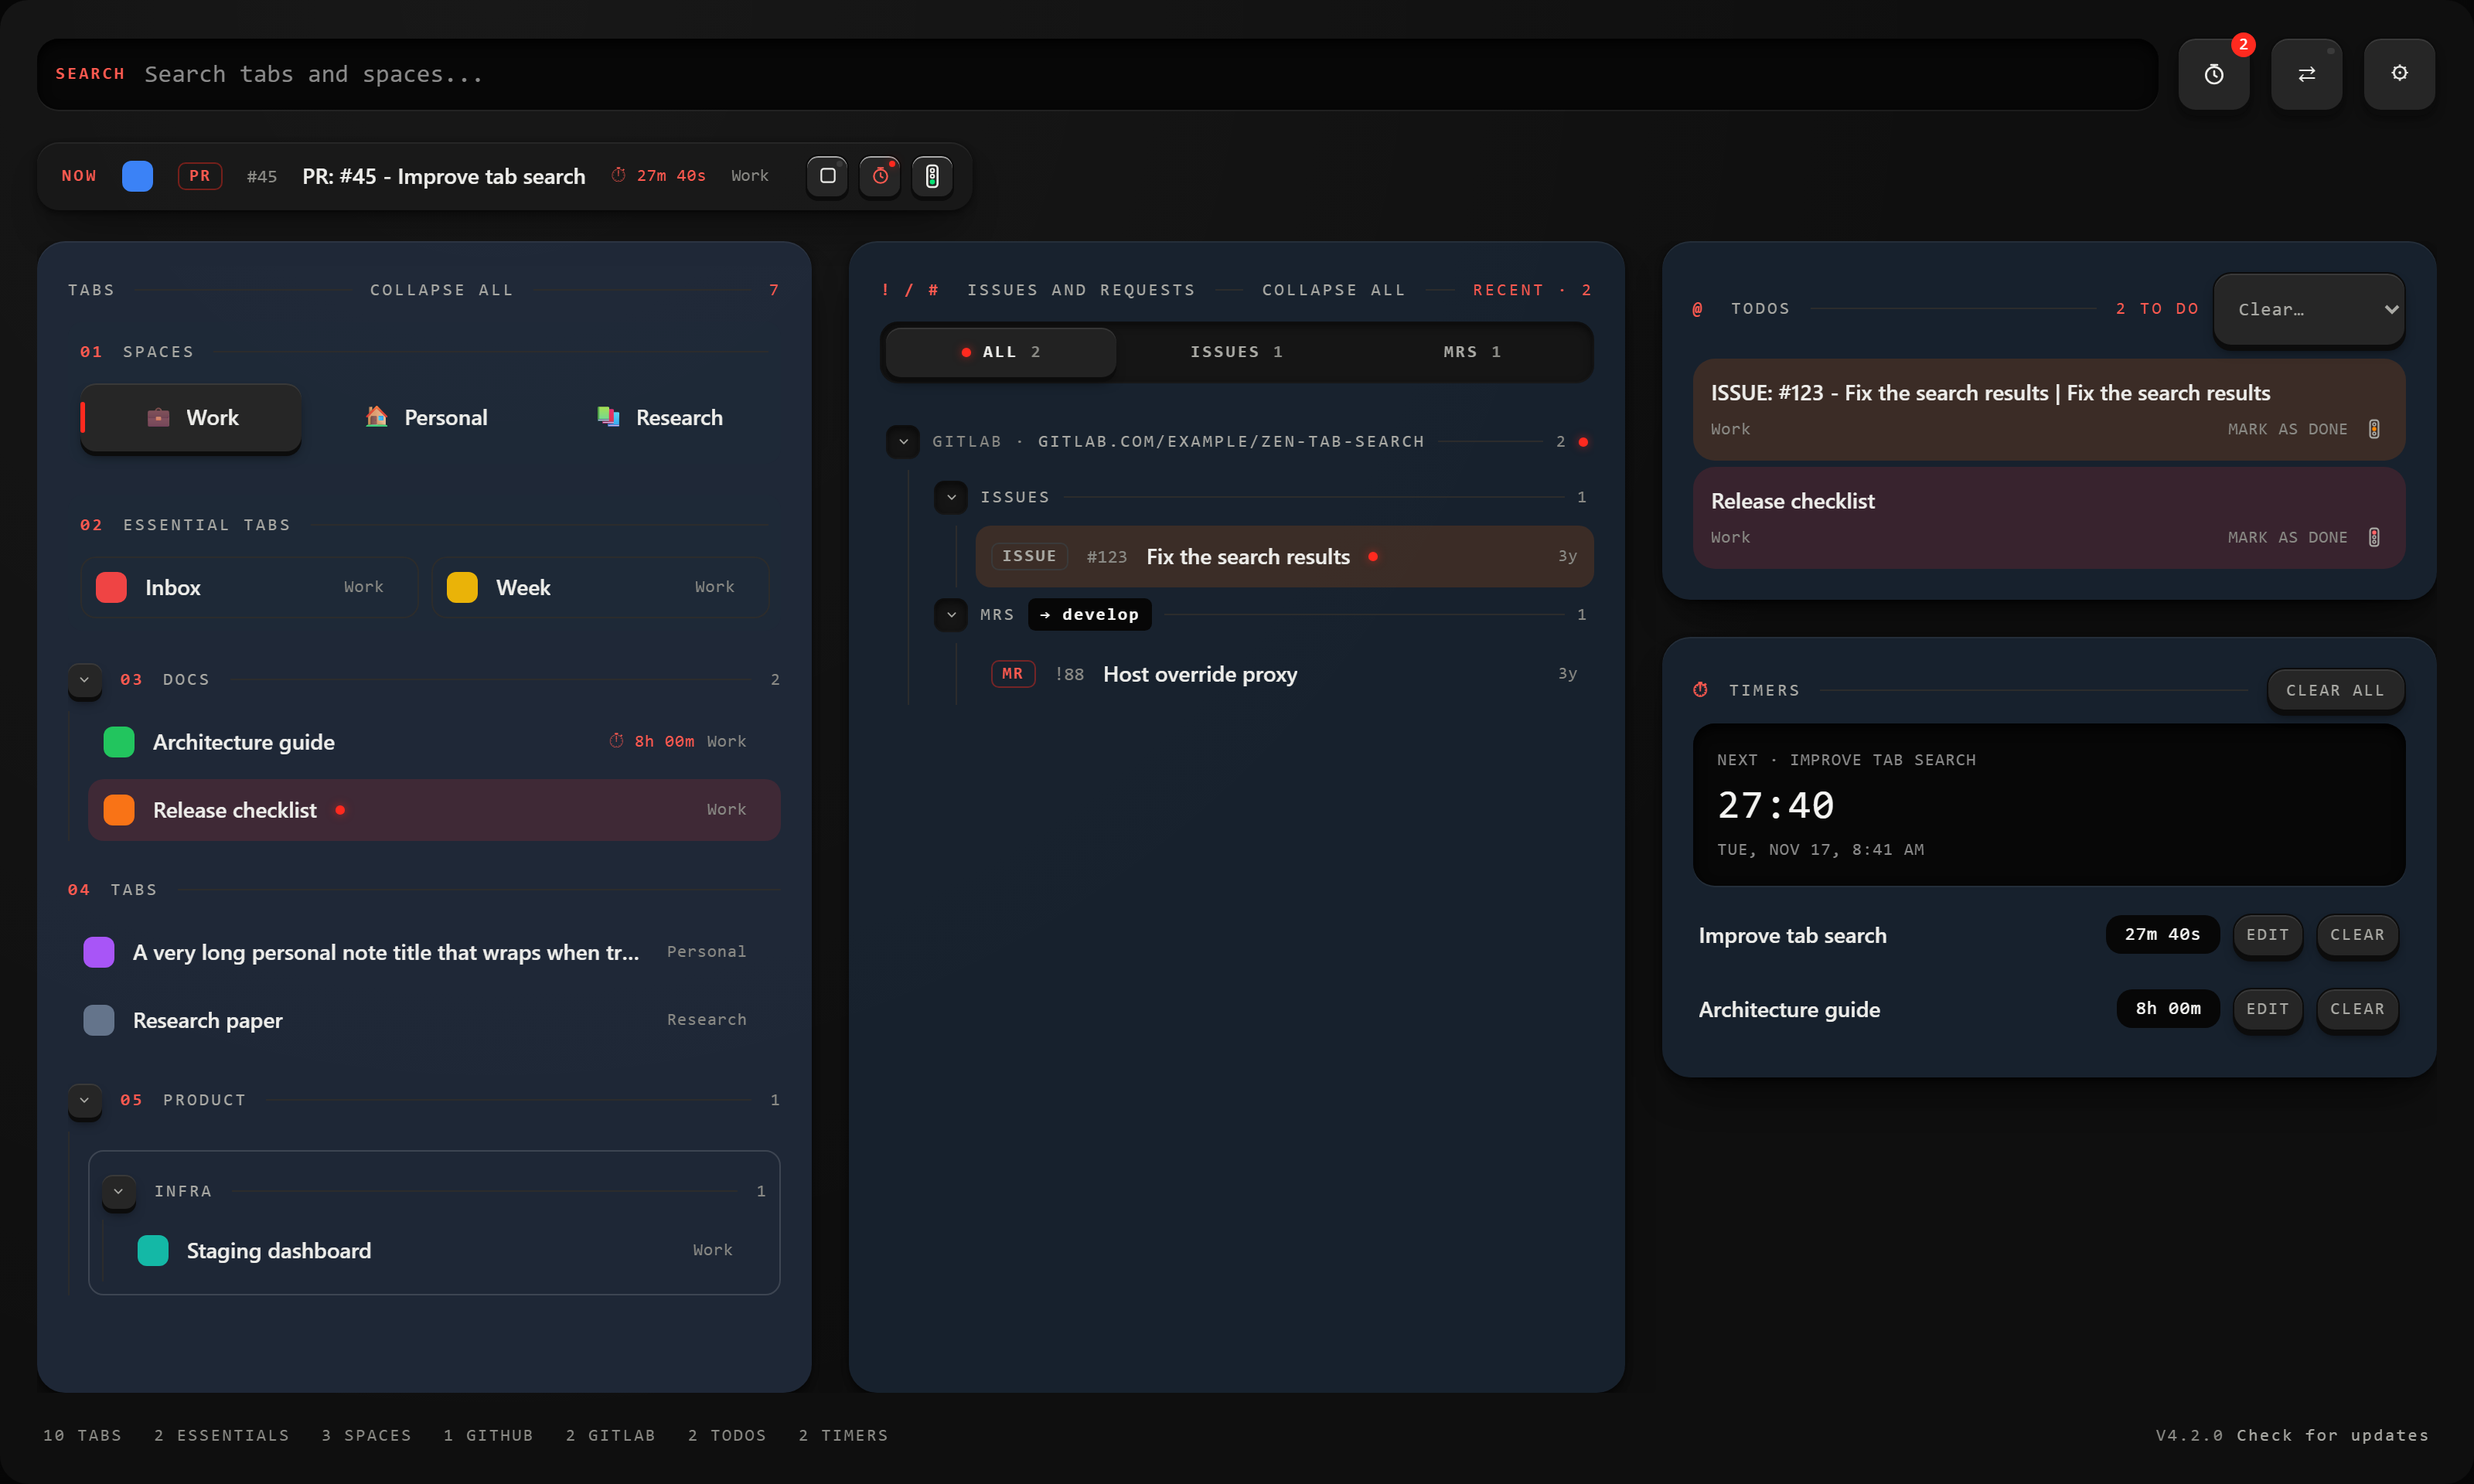
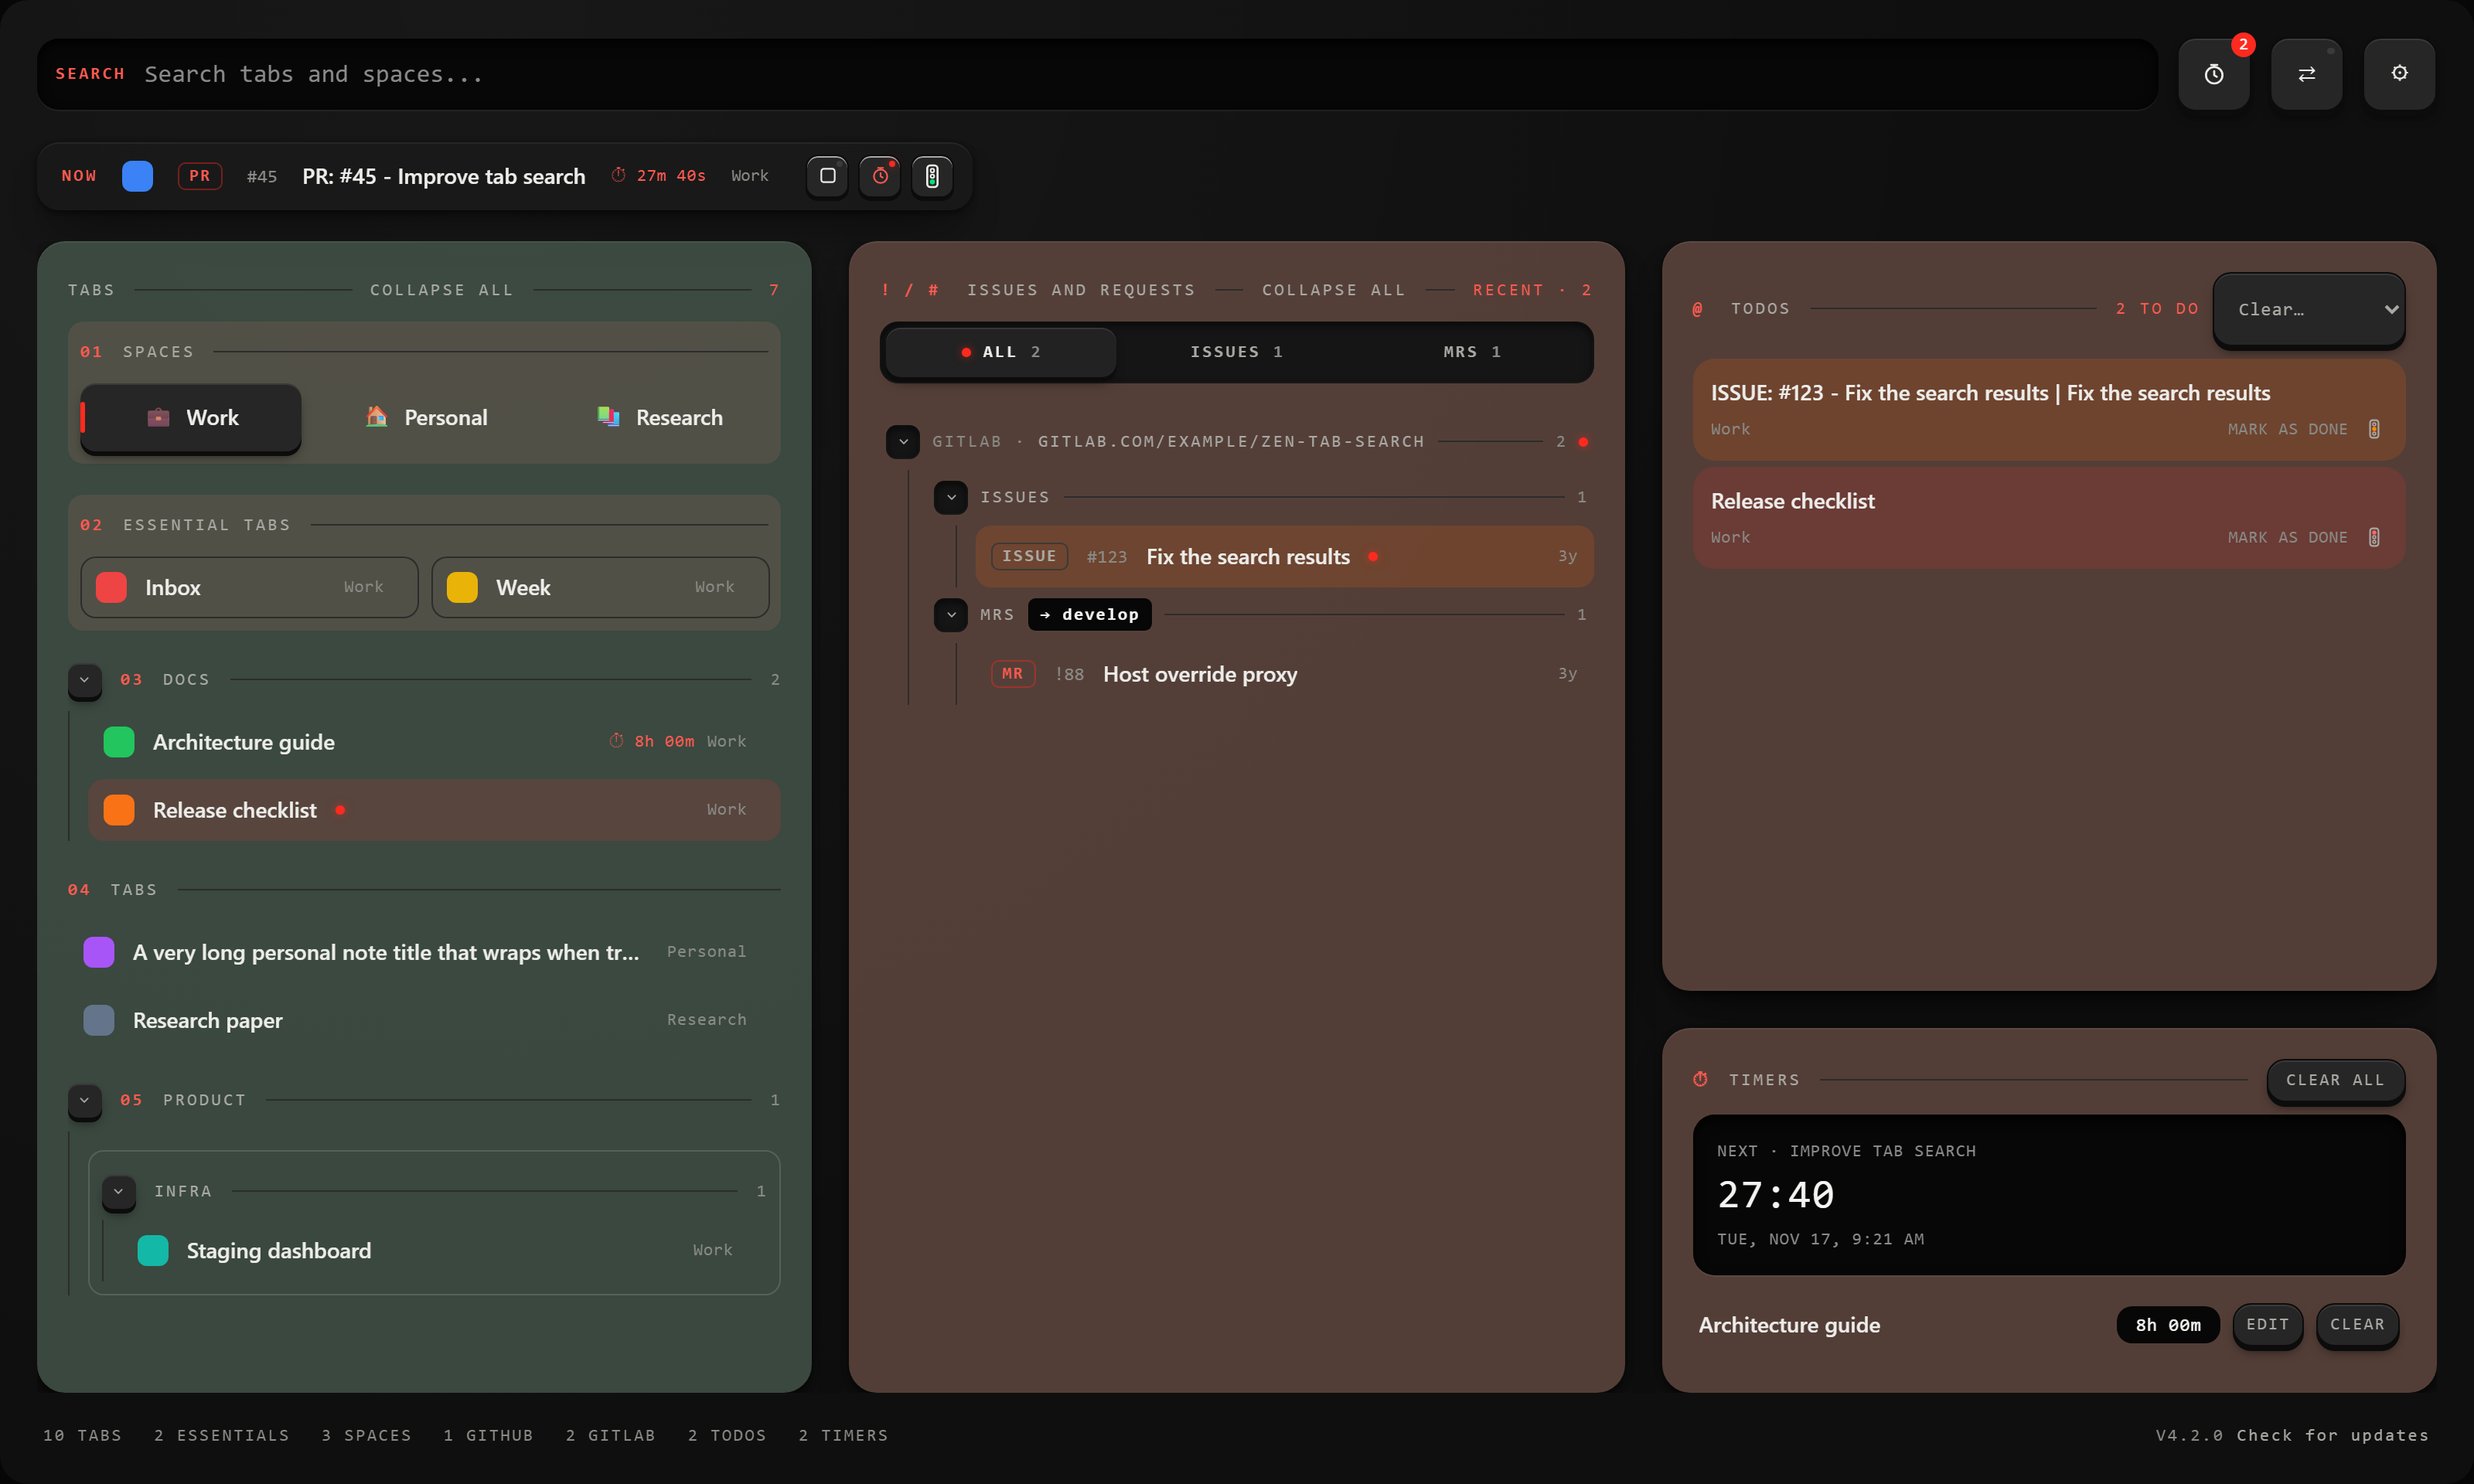
D(screenshots): recapture custom colors with a kiln palette.
zen-tab-search/
├─ screenshots/scenes.ts
│  │  display-colors: raise chroma to ivory #f6f1e8, clay
│  │  #6b4f46, sage #4a5c50, stone #5a5348 so the three
│  │  columns read as custom in both colour schemes.
│
└─ docs/screenshots/
   ├─ display-colors.png
   └─ dark/display-colors.png
      │  Regenerated from that scene only.

The first kiln pass was too close to the chassis grey. These four
still share one warm family, which is the constraint: custom colours
are a single hex set for light and dark.

diff --git a/screenshots/scenes.ts b/screenshots/scenes.ts
@@ -61,10 +61,10 @@ const SCENES: Record<string, HarnessScene> = {
     surface: "search",
     layout: "overlay",
     displaySettings: {
-      textColor: "#f3efe6",
-      issueBackgroundColor: "#4a3a34",
-      folderBackgroundColor: "#3a433c",
-      spaceBackgroundColor: "#433e36",
+      textColor: "#f6f1e8",
+      issueBackgroundColor: "#6b4f46",
+      folderBackgroundColor: "#4a5c50",
+      spaceBackgroundColor: "#5a5348",
     },
   },
   "folder-groups": { id: "folder-groups", surface: "search", layout: "overlay" },
